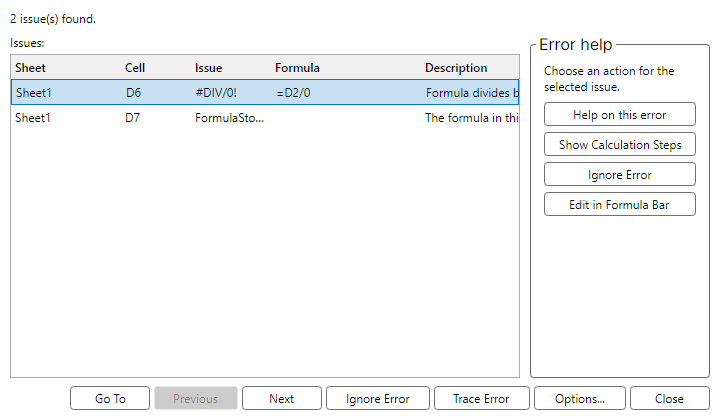
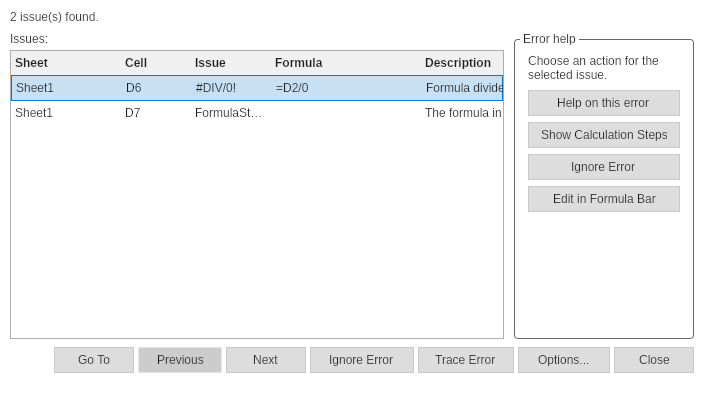
Document Wave108 parity evidence

diff --git a/docs/parity/avalonia-wpf-cross-app-dashboard.md b/docs/parity/avalonia-wpf-cross-app-dashboard.md
@@ -8,9 +8,9 @@ Generated by `tools/Generate-CrossAppParityDashboard.ps1` from existing generate
 
 | App | Primary evidence | Current generated state | Next slice |
 |---|---|---|---|
-| FreeX | Functional matrix, classifier, dialog inventory, dialog visual evidence, command surface | 546 functional commands; 540 command inventory parity; 0 Avalonia-missing; 0 real classified binding gaps; 0 catalog-backed pseudo-gallery rows (0 conditional-format, 0 font/border, 0 accounting-symbol); 57/57 dialog routes captured on WPF and Avalonia; 94 paired screenshot surface ids, 0 Avalonia-only ids, 0 WPF-only ids; 0 scale-aware dimension mismatches; 0 unresolved high-delta visual review candidates at triage score >= 0.4 (highest 0.103141); 28 raw PNG pixel dimension mismatches, of which 28 normalize by capture DPI. These are coverage/triage metrics, not a visual-parity claim. | Command/dialog route coverage is complete for the generated inputs: all 0 pseudo-gallery rows are catalog-backed in classifier evidence (0 conditional-format rows over 38 runtime catalog items, 0 font/border rows, and 0 accounting-symbol rows), and dialog screenshot evidence has 94 paired WPF/Avalonia manifest surface ids with 0 Avalonia-only ids. This is coverage and size-comparability evidence, not visual parity. The paired screenshots retain 0 unresolved high-delta visual review candidates at triage score >= 0.4 (highest 0.103141); keep those candidates separate from 0 scale-aware dimension mismatch rows and 28 raw PNG pixel dimension mismatches. |
+| FreeX | Functional matrix, classifier, dialog inventory, dialog visual evidence, command surface | 546 functional commands; 540 command inventory parity; 0 Avalonia-missing; 0 real classified binding gaps; 0 catalog-backed pseudo-gallery rows (0 conditional-format, 0 font/border, 0 accounting-symbol); 57/57 dialog routes captured on WPF and Avalonia; 94 paired screenshot surface ids, 0 Avalonia-only ids, 0 WPF-only ids; 0 scale-aware dimension mismatches; 0 unresolved high-delta visual review candidates at triage score >= 0.4 (highest 0.098981); 27 raw PNG pixel dimension mismatches, of which 27 normalize by capture DPI. These are coverage/triage metrics, not a visual-parity claim. | Command/dialog route coverage is complete for the generated inputs: all 0 pseudo-gallery rows are catalog-backed in classifier evidence (0 conditional-format rows over 38 runtime catalog items, 0 font/border rows, and 0 accounting-symbol rows), and dialog screenshot evidence has 94 paired WPF/Avalonia manifest surface ids with 0 Avalonia-only ids. This is coverage and size-comparability evidence, not visual parity. The paired screenshots retain 0 unresolved high-delta visual review candidates at triage score >= 0.4 (highest 0.098981); keep those candidates separate from 0 scale-aware dimension mismatch rows and 27 raw PNG pixel dimension mismatches. |
 | FreeW | Generated command inventory plus dialog rendered evidence | 940 commands; 490 shared-profile; 0 actionable WPF-missing; 0 actionable Avalonia-missing; 402 profile-shape-only; 43 command-id aliases; 5 platform-only; 0 deferred; 283 rendered comparison rows | Backstage print/export, WordArt/watermark, table/page-composition, shape/object, SmartArt polygon, and chart visual proof now have paired WPF/Avalonia renderer contracts plus no-Word real-capture smoke runs; chart proof also validates shared chart data signatures across hosts. All-up no-Word runner fallback drift is classified as runner evidence hygiene, and the standalone no-Word runner now writes a post-summary readiness manifest with comparable scenario IDs, candidate Word PNG baseline paths, remaining blocker IDs, and an explicit no-authoritative-Word-PNG-parity claim. Next FreeW evidence slices are the same runs with real Word PNG baselines on a Word-capable host and broader Word-authoritative drawing/object/chart/table comparisons. |
-| FreeP | Generated command inventory plus dialog/whole-window rendered evidence | 620 commands; 620 shared-profile; 0 actionable WPF-missing; 0 actionable Avalonia-missing; 0 platform-only; 103 workflow evidence rows; 61 paired rendered scenarios | Layout picker, table picker, rich inline table/text editing, shared visible list galleries, picture-bullet import/rendering plus picker/media authoring, slide-pane reorder, bottom New Slide, notes-page preview/PDF rendering, fixed-layout PDF connector, image, triangle-arrowhead, rotation, ellipse, picture-frame/crop/alpha/color-effect, shape-opacity export, and PDF visual-baseline readiness with WPF/Avalonia page-raster artifact patterns plus paired diff-report targets, export/backstage package-handoff, presenter recording backend contracts plus capture-adapter readiness and paired backend injection, captured PPTX media and generated WebVTT caption artifact authoring, focused PowerPoint-native caption package retention including external caption relationship metadata, native media/caption sidecar package depth, and caption relationship-id collision remapping, shared chart number/date label rendering plus edge/mixed manual-layout bounds, surface grid plus projected contour/wireframe/3-D surface geometry plus 3-D pie lower-depth rendering, stock OHLC capture-readiness metadata, and PowerPoint/WPF/Avalonia chart baseline capture readiness, SmartArt basic hierarchy plus vertical bullet list plus basic cycle plus radial cycle plus gear cycle plus text cycle plus basic, continuous block, segmented, chevron, alternating, funnel, circle, and arrow-ribbon process plus basic block list plus vertical box list plus stacked list plus basic pyramid plus bounded pictureCaptionList live layout plus basic/radial/stacked Venn and target-list relationship layouts plus shared outline reorder/promote/demote editing, data-part authoring, text-pane/cache-regeneration authoring, and matching thin WPF/Avalonia text-pane host controls with bounded keyboard routes, header/footer placeholder creation plus inherited layout/master geometry, title-slide suppression, fixed/auto date options, shared OMML fraction-type variants, matrix spacing/base alignment, delimiter grow semantics, accent/bar render-plan coverage, manual line breaks, boxed equation-array alignment points, transparent phantom spacing classes, pre-sub/superscript layout, matrix empty-cell placeholder handling, and group-character vertical justification, ink execution with repeated custom-show route retention, modern comments/review with shared mention candidate and insertion planning, accessibility/proofing workflow depth, animation-pane row/playback workflow evidence, paired real Windows microphone narration handoff, paired Windows camera handoff readiness, paired default no-COM camera handoff/package-target readiness without encoded-payload or PowerPoint-baseline claims, deterministic encoded camera media payload artifacts through host-specific PPTX package paths, and paired OS-backed unavailable-hardware/no-device recording evidence now have WPF/Avalonia no-COM evidence paths. Continue workflow-depth slices in live capture on real microphone/camera hardware, actual local default no-COM camera video encoding that produces non-empty mp4 payloads, calibrated chart-family acceptance thresholds and remaining type-specific decisions beyond the current PowerPoint baseline-depth/type/label captures, broader SmartArt layout families, remaining OMML constructs/alignment semantics and PowerPoint-authoritative math visual-baseline coverage, broader real-deck PowerPoint-native media/caption baselines, actual PowerPoint PDF/PNG capture and calibrated PDF visual diffs on a COM-capable host, and PowerPoint-authoritative animation-pane visual/playback baselines. |
+| FreeP | Generated command inventory plus dialog/whole-window rendered evidence | 622 commands; 622 shared-profile; 0 actionable WPF-missing; 0 actionable Avalonia-missing; 0 platform-only; 103 workflow evidence rows; 61 paired rendered scenarios | Layout picker, table picker, rich inline table/text editing, shared visible list galleries, picture-bullet import/rendering plus picker/media authoring, slide-pane reorder, bottom New Slide, notes-page preview/PDF rendering, fixed-layout PDF connector, image, triangle-arrowhead, rotation, ellipse, picture-frame/crop/alpha/color-effect, shape-opacity export, and PDF visual-baseline readiness with WPF/Avalonia page-raster artifact patterns plus paired diff-report targets, export/backstage package-handoff, presenter recording backend contracts plus capture-adapter readiness and paired backend injection, captured PPTX media and generated WebVTT caption artifact authoring, focused PowerPoint-native caption package retention including external caption relationship metadata, native media/caption sidecar package depth, and caption relationship-id collision remapping, shared chart number/date label rendering plus edge/mixed manual-layout bounds, surface grid plus projected contour/wireframe/3-D surface geometry plus 3-D pie lower-depth rendering, stock OHLC capture-readiness metadata, and PowerPoint/WPF/Avalonia chart baseline capture readiness, SmartArt basic hierarchy plus vertical bullet list plus basic cycle plus radial cycle plus gear cycle plus text cycle plus basic, continuous block, segmented, chevron, alternating, funnel, circle, and arrow-ribbon process plus basic block list plus vertical box list plus stacked list plus basic pyramid plus bounded pictureCaptionList live layout plus basic/radial/stacked Venn and target-list relationship layouts plus shared outline reorder/promote/demote editing, data-part authoring, text-pane/cache-regeneration authoring, and matching thin WPF/Avalonia text-pane host controls with bounded keyboard routes, header/footer placeholder creation plus inherited layout/master geometry, title-slide suppression, fixed/auto date options, shared OMML fraction-type variants, matrix spacing/base alignment, delimiter grow semantics, accent/bar render-plan coverage, manual line breaks, boxed equation-array alignment points, transparent phantom spacing classes, pre-sub/superscript layout, matrix empty-cell placeholder handling, and group-character vertical justification, ink execution with repeated custom-show route retention, modern comments/review with shared mention candidate and insertion planning, accessibility/proofing workflow depth, animation-pane row/playback workflow evidence, paired real Windows microphone narration handoff, paired Windows camera handoff readiness, paired default no-COM camera handoff/package-target readiness without encoded-payload or PowerPoint-baseline claims, deterministic encoded camera media payload artifacts through host-specific PPTX package paths, and paired OS-backed unavailable-hardware/no-device recording evidence now have WPF/Avalonia no-COM evidence paths. Continue workflow-depth slices in live capture on real microphone/camera hardware, actual local default no-COM camera video encoding that produces non-empty mp4 payloads, calibrated chart-family acceptance thresholds and remaining type-specific decisions beyond the current PowerPoint baseline-depth/type/label captures, broader SmartArt layout families, remaining OMML constructs/alignment semantics and PowerPoint-authoritative math visual-baseline coverage, broader real-deck PowerPoint-native media/caption baselines, actual PowerPoint PDF/PNG capture and calibrated PDF visual diffs on a COM-capable host, and PowerPoint-authoritative animation-pane visual/playback baselines. |
 
 ## Rendered Evidence Summary
 
@@ -19,7 +19,7 @@ Route inventory, rendered/comparison rows, and committed PNG/file artifacts are 
 | App | Route coverage | Artifact coverage | Paired WPF/Avalonia evidence | Physical/no-COM limitation | Authoritative Microsoft Office baseline |
 |---|---|---|---|---|---|
 | FreeX | 57 inventoried dialog routes; 57 paired route evidence rows | 94 WPF + 94 Avalonia manifest surfaces; 94 paired | 94 paired surfaces; 0 unresolved high-delta candidates | not-present-in-inputs; app-owned render manifests only; no physical-device or COM artifact in inputs | Microsoft Excel: unavailable in inputs; 0 artifacts |
-| FreeW | 98 inventoried route families; 95 represented in comparison rows; 63 paired and 33 Avalonia-only | 283 comparison rows; 183 paired rows; 96 Avalonia-only rows; no PNG manifest | 183 paired rows; 17 pass classifications; 166 genuine visual mismatch classifications | not-present-in-inputs; app-owned comparison rows only; no physical-device or Word-COM artifact in inputs | Microsoft Word: unavailable in inputs; 0 artifacts |
+| FreeW | 98 inventoried route families; 95 represented in comparison rows; 63 paired and 33 Avalonia-only | 283 comparison rows; 183 paired rows; 96 Avalonia-only rows; no PNG manifest | 183 paired rows; 20 pass classifications; 163 genuine visual mismatch classifications | not-present-in-inputs; app-owned comparison rows only; no physical-device or Word-COM artifact in inputs | Microsoft Word: unavailable in inputs; 0 artifacts |
 | FreeP | Dialog lane: 19 routes/28 scenarios; whole-window lane: 33 scenarios without a separate route inventory | 107 WPF PNGs; 107 Avalonia PNGs; 77 diff PNGs; 301 manifest files | 61 paired scenarios; 61 local comparison passes; 0 mismatches; 0 limitations | not-available; visible app-owned render targets; PowerPoint COM and real recording hardware residuals remain | Microsoft PowerPoint: unavailable; 0 artifacts; external baseline residual retained |
 
 ## FreeX Visual Review Queue

diff --git a/docs/parity/dialog-visual-evidence-summary.md b/docs/parity/dialog-visual-evidence-summary.md
@@ -62,7 +62,6 @@ Outliers are ranked by a deterministic triage score: normalized 32x32 ARGB sampl
 
 | Surface id | WPF logical size | Avalonia logical size | Raw PNG sizes | Bucket | Evidence flag | Score | Sample delta | Luma delta | Non-bg delta |
 | --- | ---: | ---: | --- | --- | --- | ---: | ---: | ---: | ---: |
-| dialog.ErrorChecking | 720x420 | 720x420 | 720x420 px @ 96 DPI vs 720x420 px @ 96 DPI |  |  | 0.104 | 0.034 | 0.009 | 0.061 |
 | dialog.FormatCells.Border | 620x597 | 620x597 | 620x597 px @ 96 DPI vs 620x597 px @ 96 DPI |  |  | 0.099 | 0.036 | 0.003 | 0.060 |
 | dialog.AccessibilityChecker | 360x520 | 360x520 | 360x520 px @ 96 DPI vs 360x520 px @ 96 DPI |  |  | 0.099 | 0.040 | 0.023 | 0.036 |
 | dialog.Options.View | 744x521 | 744x521 | 744x521 px @ 96 DPI vs 744x521 px @ 96 DPI |  |  | 0.099 | 0.016 | 0.006 | 0.076 |
@@ -72,6 +71,7 @@ Outliers are ranked by a deterministic triage score: normalized 32x32 ARGB sampl
 | dialog.FindReplace.Find | 720x430 | 720x430 | 720x430 px @ 96 DPI vs 720x430 px @ 96 DPI |  |  | 0.095 | 0.015 | 0.005 | 0.075 |
 | dialog.InsertHyperlink | 560x300 | 560x300 | 840x450 px @ 144 DPI vs 560x300 px @ 96 DPI |  |  | 0.095 | 0.046 | 0.008 | 0.041 |
 | dialog.Options.Formulas | 744x777 | 744x777 | 744x777 px @ 96 DPI vs 744x777 px @ 96 DPI |  |  | 0.093 | 0.033 | 0.006 | 0.054 |
+| dialog.Zoom | 300x240 | 300x240 | 450x360 px @ 144 DPI vs 300x240 px @ 96 DPI |  |  | 0.093 | 0.034 | 0.015 | 0.045 |
 
 ## Scale-Aware Dimension Mismatch Details
 
@@ -103,7 +103,7 @@ These rows have a DPI-normalized checked-in PNG size that disagrees with the dia
 | dialog.CustomViews | dialog.CustomViews.png | 640x360 | 960x540 px @ 144 DPI | True | dialog.CustomViews.png | 640x360 | 640x360 px @ 96 DPI | True | True | 0.058 |
 | dialog.DataTable | dialog.DataTable.png | 360x210 | 540x315 px @ 144 DPI | True | dialog.DataTable.png | 360x210 | 360x210 px @ 96 DPI | True | True | 0.068 |
 | dialog.DataValidation | dialog.DataValidation.png | 520x560 | 780x840 px @ 144 DPI | True | dialog.DataValidation.png | 520x560 | 520x560 px @ 96 DPI | True | True | 0.059 |
-| dialog.ErrorChecking | dialog.ErrorChecking.png | 720x420 | 720x420 px @ 96 DPI | True | dialog.ErrorChecking.png | 720x420 | 720x420 px @ 96 DPI | True | True | 0.104 |
+| dialog.ErrorChecking | dialog.ErrorChecking.png | 720x420 | 720x420 px @ 96 DPI | True | dialog.ErrorChecking.png | 720x420 | 720x420 px @ 96 DPI | True | True | 0.047 |
 | dialog.EvaluateFormula | dialog.EvaluateFormula.png | 600x360 | 900x540 px @ 144 DPI | True | dialog.EvaluateFormula.png | 600x360 | 600x360 px @ 96 DPI | True | True | 0.090 |
 | dialog.ExportOptions | dialog.ExportOptions.png | 430x552 | 430x552 px @ 96 DPI | True | dialog.ExportOptions.png | 430x552 | 430x552 px @ 96 DPI | True | True | 0.058 |
 | dialog.FindReplace | dialog.FindReplace.png | 720x430 | 720x430 px @ 96 DPI | True | dialog.FindReplace.png | 720x430 | 720x430 px @ 96 DPI | True | True | 0.095 |

diff --git a/docs/parity/freex-error-checking-wave108-20260802.md b/docs/parity/freex-error-checking-wave108-20260802.md
@@ -28,18 +28,18 @@ Avalonia image. WPF PNG SHA-256:
 
 ## Evidence
 
-After replacing the stale one-row WPF image, the honest paired triage score is
-`0.104142` (sample `0.033760`, luma `0.008819`, non-background `0.061283`).
-The previous `0.103141` score must not be treated as an improvement baseline:
-it was computed from semantically mismatched PNGs. Both manifests now report
-`720x420` logical dimensions, nonblank captures, and the same two-row issue
-state.
+After replacing the stale one-row WPF image, the intermediate honest paired
+triage score was `0.104142` (sample `0.033760`, luma `0.008819`,
+non-background `0.061283`). The previous `0.103141` score must not be treated
+as an improvement baseline: it was computed from semantically mismatched
+PNGs.
 
-The Avalonia PNG remains the earlier committed Linux capture asset. A fresh
-Linux production recapture is intentionally deferred to the parent agent,
-which owns Docker serialization; current source already contains the
-Avalonia-specific `704x383` client geometry intended to match WPF's native
-frame reserve.
+The parent integration lane then ran a fresh production Avalonia capture in
+Linux Docker/Xvfb at 96 DPI and promoted the resulting nonblank `720x420` PNG.
+With current pixels on both sides, `dialog.ErrorChecking` now scores `0.047`
+and is no longer a leading outlier. Both manifests report `720x420` logical
+dimensions and the same shared D6/D7 issue state. The highest remaining FreeX
+triage score is now `0.098981` for `dialog.FormatCells.Border`.
 
 ## Verification
 
@@ -50,10 +50,14 @@ frame reserve.
 - `FreeX.App.Services.Tests` planner filter: 3/3 passed.
 - `FreeX.App.Host.Tests` Error Checking source/fixture filter: 18/18 passed.
 - `FreeX.App.Avalonia.Tests` compact dialog source filter: 16/16 passed.
+- Linux Docker/Xvfb focused production capture: 1/1 requested surface emitted,
+  nonblank at `720x420`, with the complete action row visible.
+- Regenerated cross-app dashboard: 94/94 paired FreeX surfaces, zero logical
+  dimension mismatches, and 27 raw pixel-size differences all normalized by
+  capture DPI.
 
 ## Residuals
 
 Native WPF versus Avalonia text rasterization, button templates, selected-row
-colors, and scrollbar glyphs remain visual differences. The next visual
-judgment should use a fresh Linux capture from the current source, not the
-older Avalonia PNG, after the semantic fixture correction is integrated.
+colors, and scrollbar glyphs remain visual differences. The next FreeX visual
+slice is `dialog.FormatCells.Border`; Error Checking no longer leads the queue.

diff --git a/docs/parity/avalonia-parity-wave108-integration-20260802.md b/docs/parity/avalonia-parity-wave108-integration-20260802.md
@@ -1,0 +1,50 @@
+# Avalonia Parity Wave108 Integration
+
+Date: 2026-08-02
+
+## Delivered
+
+- FreeX Error Checking now compares the same shared D6/D7 issue fixture on
+  WPF and Avalonia. A fresh production Linux Docker/Xvfb capture replaced the
+  stale Avalonia asset and reduced its triage score from the honest
+  post-fixture `0.104142` to `0.047`.
+- FreeW Accessibility Report now matches the WPF size and composition for its
+  initial, populated, and validation-error states. All three moved from visual
+  mismatches to passes; changed pixels fell from `7.613%` to `0.598%` and mean
+  channel delta from `17.083` to `0.832`.
+- FreeP adds `pictureAccentProcess` through one shared reader, authoring,
+  insertion, layout, and command contract consumed by both WPF and Avalonia.
+
+## Generated Evidence
+
+- FreeX: 94/94 paired surfaces, zero missing or blank captures, zero logical
+  dimension mismatches, and 27 raw pixel-size differences normalized by DPI.
+  The highest remaining visual triage score is `0.098981` for
+  `dialog.FormatCells.Border`.
+- FreeW: 20 paired visual passes and 163 genuine visual mismatches, improved
+  from 17 passes and 166 mismatches.
+- FreeP: 622/622 shared-profile commands with zero actionable host gaps;
+  dialog/pane evidence remains 28/28 pass and whole-window evidence remains
+  33/33 paired with zero explicit product mismatches.
+
+## Verification
+
+- Focused FreeX: Services 3/3, WPF host 20/20, Avalonia compact-dialog source
+  16/16.
+- Focused FreeW Accessibility Report: 2/2.
+- Focused FreeP SmartArt: Presentation 373/373 and WPF host/ribbon 445/445.
+- Linux production capture: 1/1 requested Error Checking surface, nonblank at
+  720x420 with the complete action row visible.
+- Repository preflight: passed after refreshing generated FreeP whole-window
+  evidence provenance.
+- Release solution build: passed with 0 warnings and 0 errors.
+- Default non-UI lane: 35,454 passed, 0 failed, 133 not executed; 35,587 total.
+
+## Remaining
+
+- FreeX next visual slice: `dialog.FormatCells.Border`.
+- FreeW retains 163 genuine local WPF/Avalonia visual mismatches and still
+  needs Word-authoritative PNG baselines on a Word-capable host.
+- FreeP still needs PowerPoint-authoritative picture crop/mask/effect geometry,
+  broader native layout XML coverage, and richer real-deck/media/math evidence.
+
